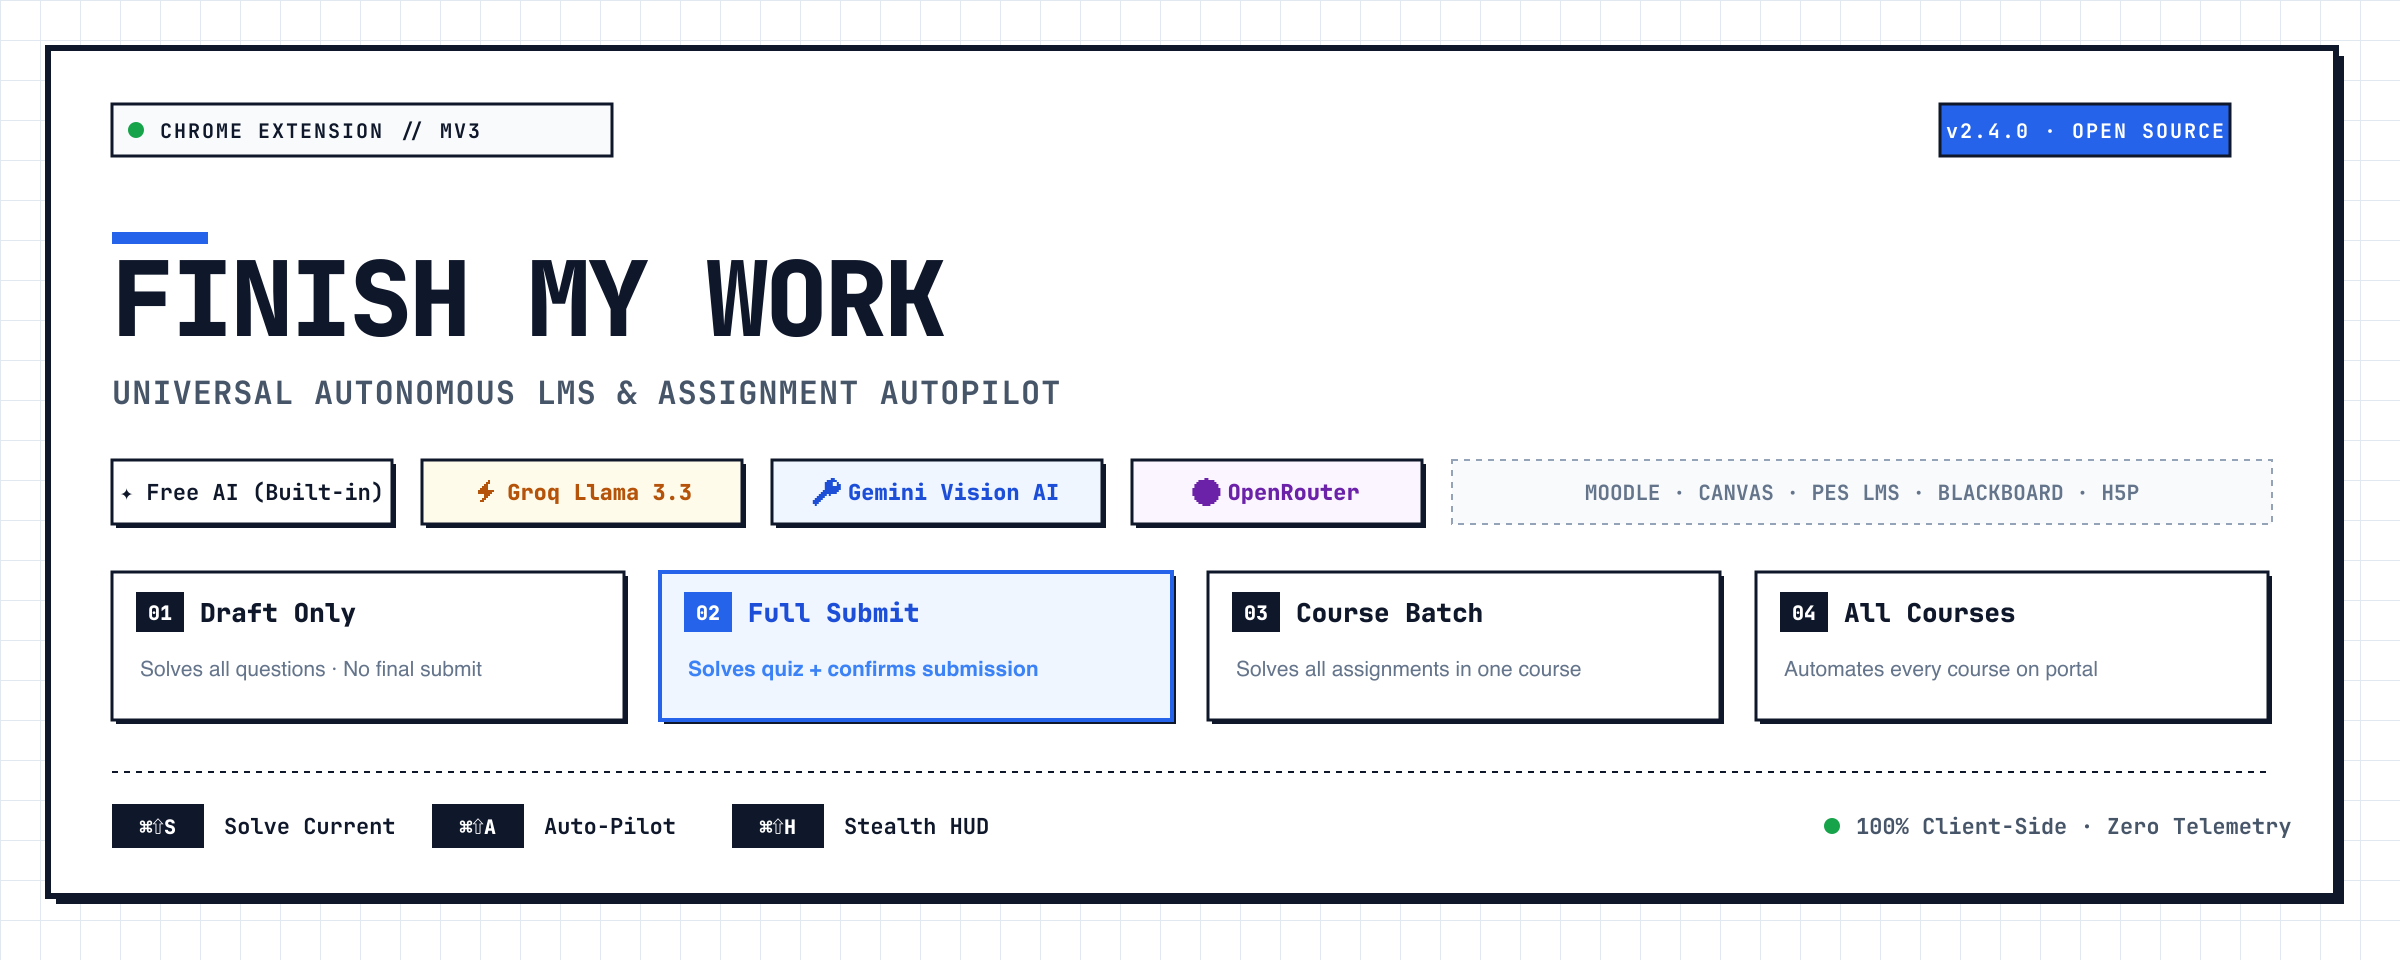
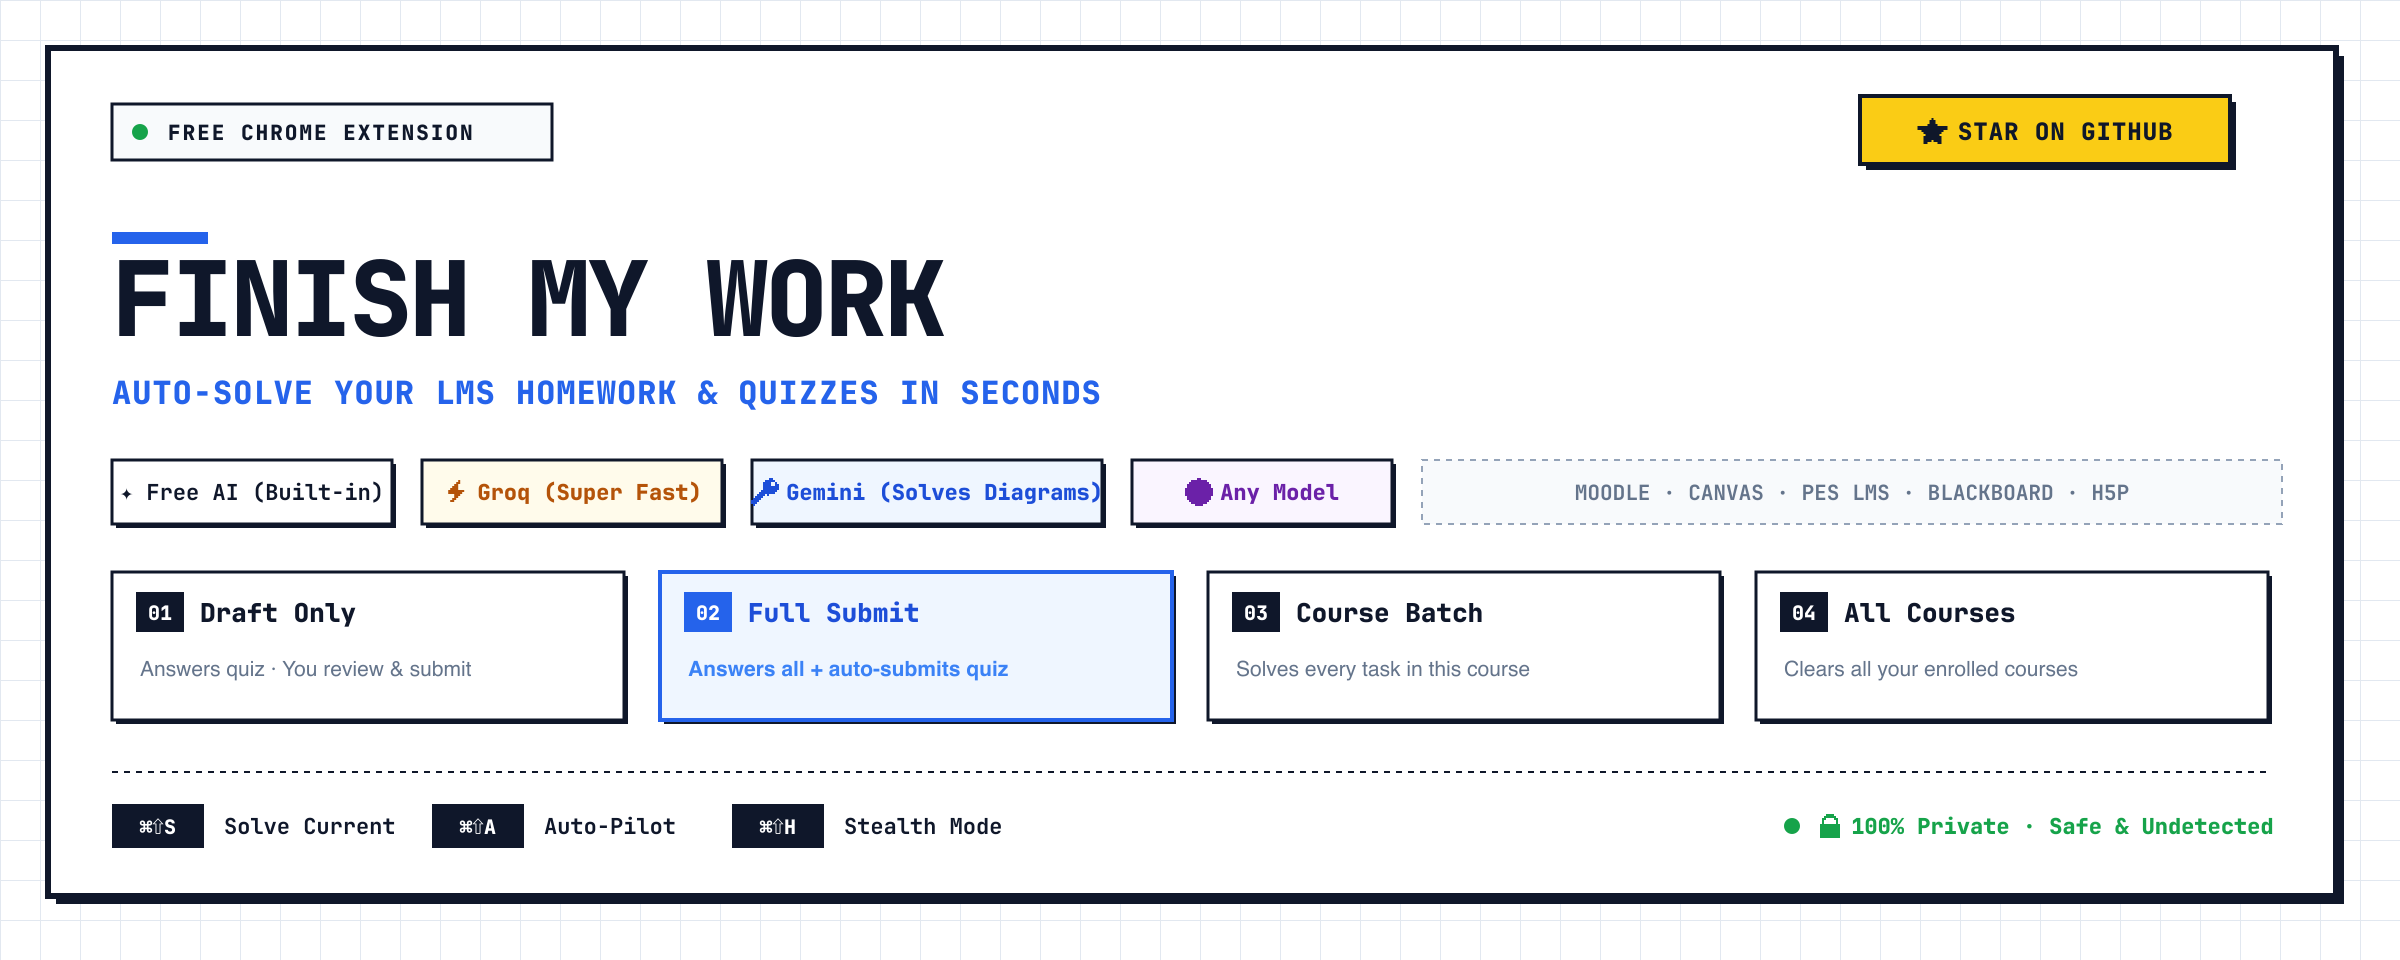
docs: remove developer jargon, write student-first copy, and add high-contrast Star CTA

diff --git a/README.md b/README.md
@@ -1,122 +1,103 @@
 <p align="center">
-  <img src="assets/banner.png" alt="Finish My Work Banner" width="100%" style="border-radius: 8px;" />
+  <a href="https://github.com/rushilbh27/finish-my-work">
+    <img src="assets/banner.png" alt="Finish My Work Banner" width="100%" />
+  </a>
 </p>
 
 <p align="center">
-  <strong>Universal Autonomous Assignment & Quiz Autopilot for Chrome</strong>
-</p>
-
-<p align="center">
-  <a href="https://github.com/rushilbh27/finish-my-work/stargazers"><img src="https://img.shields.io/github/stars/rushilbh27/finish-my-work?style=for-the-badge&color=2563eb" alt="GitHub Stars"></a>
-  <a href="LICENSE"><img src="https://img.shields.io/badge/License-MIT-blue.svg?style=for-the-badge" alt="MIT License"></a>
-  <img src="https://img.shields.io/badge/Chrome-Manifest_V3-success?style=for-the-badge&logo=googlechrome" alt="Manifest V3">
-  <img src="https://img.shields.io/badge/AI-Groq%20%7C%20Gemini%20%7C%20OpenRouter-orange?style=for-the-badge" alt="AI Engines">
-  <a href="https://github.com/rushilbh27/finish-my-work/pulls"><img src="https://img.shields.io/badge/PRs-welcome-brightgreen.svg?style=for-the-badge" alt="PRs Welcome"></a>
+  <a href="https://github.com/rushilbh27/finish-my-work/stargazers">
+    <img src="https://img.shields.io/badge/%E2%AD%90%20STAR%20THIS%20REPO-If%20it%20saved%20your%20grades!-facc15?style=for-the-badge&labelColor=0f172a" alt="Star on GitHub" />
+  </a>
+  &nbsp;
+  <a href="https://github.com/rushilbh27/finish-my-work/stargazers">
+    <img src="https://img.shields.io/github/stars/rushilbh27/finish-my-work?style=for-the-badge&color=2563eb" alt="GitHub Stars" />
+  </a>
+  &nbsp;
+  <img src="https://img.shields.io/badge/License-MIT-blue.svg?style=for-the-badge" alt="MIT License" />
+  &nbsp;
+  <img src="https://img.shields.io/badge/Chrome-Extension-success?style=for-the-badge&logo=googlechrome" alt="Chrome Extension" />
 </p>
 
 ---
 
-## ⚡ Overview
+## ⚡ What is Finish My Work?
 
-**Finish My Work** is an open-source, high-speed autonomous Chrome extension that automates repetitive LMS homework, Moodle quizzes, TinyMCE brief answers, and interactive H5P modules with surgical precision.
+**Finish My Work** is a free Chrome extension that automatically solves school assignments, portal quizzes, essays, and flashcards in seconds.
 
-Built with a sleek neo-brutalist technical interface, multi-engine AI intelligence (**Groq**, **Gemini Vision**, **OpenRouter**, and a **Built-in Free Tier** with auto-pacing cooldowns), and **4 autonomous agent modes**, it turns hours of repetitive school portal clicks into a single shortcut press.
+Whether your school uses **Moodle**, **Canvas**, **Blackboard**, or **PES LMS**, Finish My Work reads the questions on your screen, fills in the correct answers, turns pages, and gets your homework done so you can focus on things you actually care about.
 
 ---
 
-## 📸 Visual Showcase
+## 📸 Extension Preview
 
 <p align="center">
-  <img src="assets/popup-main.png" alt="Finish My Work Extension UI" width="350px" />
+  <img src="assets/popup-main.png" alt="Finish My Work Extension UI" width="340px" />
 </p>
 
 <p align="center">
   <img src="assets/agent-modes.png" alt="4 Agent Autopilot Modes" width="94%" />
-  <br />
-  <em>Agent Mode Selector: Full descriptive context in the menu, clean compact labels when selected.</em>
 </p>
 
 ---
 
-## 🚀 The 4 Autonomous Agent Modes
+## 🚀 The 4 Autopilot Modes
 
-| Mode | Short Label | Description & Workflow |
+Pick how much control you want:
+
+| Mode | What it does | When to use it |
 | :--- | :--- | :--- |
-| **Mode 1** | **Draft Only** | **Solve, don't submit.** Solves all questions on the page, handles multi-page pagination, but halts safely before final submission so you can review answers with complete peace of mind. |
-| **Mode 2** | **Full Submit** | **Solve + submit quiz.** Solves every question, handles pagination, triggers the final submission button, bypasses Moodle double-confirmation modals, and stops once the "Response received" state is verified. |
-| **Mode 3** | **Course Batch** | **All assignments in course.** Sequentially crawls through all quizzes, modules, and reading materials in your active course, solving and marking them complete. |
-| **Mode 4** | **All Courses** | **Every assignment everywhere.** Full autonomous sweep across all enrolled courses on your portal dashboard. |
+| **01. Draft Only** | Solves every question and turns pages, but **stops before the final submit button**. | When you want to double-check the answers yourself before turning it in. |
+| **02. Full Submit** | Solves all questions, clicks final submit, confirms submission dialogs, and verifies you're done. | When you just want the quiz finished and turned in automatically. |
+| **03. Course Batch** | Automatically goes through all open quizzes and assignments across your current course. | Clearing an entire subject's backlog in one sitting. |
+| **04. All Courses** | Sweeps across all your enrolled courses on your portal dashboard. | End-of-semester speedrun. |
 
 ---
 
-## 🧠 Multi-Engine AI Architecture
+## 🤖 Works With Any AI (Or None at All!)
 
-Finish My Work never leaves you stranded with a broken rate limit or expired trial:
-
-- ✦ **Built-in Free Engine (Zero-Key)**: Works out of the box with zero API keys or configuration. Includes an automated countdown timer that paces requests through free-tier server cooldowns so no question is ever skipped.
-- ⚡ **Groq Cloud (Ultra-Fast 500+ T/s)**: Connect your free Groq key (`gsk_...`) for instant Llama 3.3 70B solving with zero wait times. Get one in 10 seconds at [console.groq.com](https://console.groq.com/keys).
-- 🔑 **Google Gemini (Vision AI)**: Connect your Gemini key from [Google AI Studio](https://aistudio.google.com/app/apikey). Capable of reading diagrams, circuit schematics, graphs, and chemistry formulas.
-- 🌐 **OpenRouter**: Access DeepSeek R1, Claude 3.5 Sonnet, or GPT-4o with your custom [OpenRouter](https://openrouter.ai/keys) key.
+- ✦ **Free AI (Built-in)**: Works immediately out of the box with zero keys, zero setup, and zero credit cards. Includes an automatic countdown timer so multi-question quizzes never get stuck on server limits.
+- ⚡ **Groq AI (Super Fast)**: Instant answers with zero wait time. Free keys take 10 seconds at [console.groq.com](https://console.groq.com/keys).
+- 🔑 **Google Gemini (Vision AI)**: Can solve questions with diagrams, circuits, charts, and chemistry formulas. Free keys at [Google AI Studio](https://aistudio.google.com/app/apikey).
+- 🌐 **Any Model**: Connect your [OpenRouter](https://openrouter.ai/keys) key to run DeepSeek R1, Claude, or GPT-4o.
 
 ---
 
-## ✨ Key Features
+## ✨ Features Students Love
 
-- **🧩 Native H5P Module Cracker**: Reads flashcards and crossword memory directly from the client-side DOM objects and solves them in milliseconds with 100% precision.
-- **📝 TinyMCE & Rich Text Automation**: Injects concise, natural academic answers directly into rich-text essay boxes and triggers native input dispatchers so forms detect content change.
-- **📚 1-Click Course Completion**: Automatically scans and ticks off "Done" buttons for all PDFs, reading chapters, and video lectures.
-- **⌨ Muscle-Memory Shortcuts**:
+- 📝 **Solves Written & Essay Questions**: Automatically writes natural answers into text boxes.
+- 🧩 **H5P Flashcards & Crosswords**: Instantly finds the solutions to interactive flashcards and crosswords.
+- 📚 **1-Click Reading Check**: Automatically clicks "Done" on PDF modules, chapters, and video lessons.
+- 🔒 **100% Private & Undetected**: No tracking, no logs, and undetected by school portals. Runs directly on your device.
+- ⌨ **Keyboard Shortcuts**:
   - <kbd>⌘⇧S</kbd> / <kbd>Ctrl+Shift+S</kbd> : Solve Current Question
-  - <kbd>⌘⇧A</kbd> / <kbd>Ctrl+Shift+A</kbd> : Trigger Autonomous Auto-Pilot
-  - <kbd>⌘⇧H</kbd> / <kbd>Ctrl+Shift+H</kbd> : Stealth Toggle (Show / Hide on-page HUD)
-- **🔒 100% Local Privacy**: Zero telemetry, zero external tracking databases, and zero analytics. Your API keys and school sessions stay strictly inside your browser's encrypted `chrome.storage.local`.
+  - <kbd>⌘⇧A</kbd> / <kbd>Ctrl+Shift+A</kbd> : Start Autopilot
+  - <kbd>⌘⇧H</kbd> / <kbd>Ctrl+Shift+H</kbd> : Stealth Mode (Hide the floating widget)
 
 ---
 
-## 🛠 30-Second Quickstart Installation
+## 🛠 How to Install in 30 Seconds
 
-1. Clone or download this repository:
+1. Download or clone this repository:
    ```bash
    git clone https://github.com/rushilbh27/finish-my-work.git
    ```
 2. Open Google Chrome (or Brave, Arc, Edge, Opera).
-3. Navigate to `chrome://extensions/` in your URL bar.
-4. Turn on the **"Developer mode"** toggle in the top-right corner.
-5. Click **"Load unpacked"** in the top-left corner.
-6. Select the cloned `finish-my-work` folder.
-7. Pin **Finish My Work** to your toolbar — you're ready to conquer your workload!
+3. In the address bar, type:
+   ```
+   chrome://extensions
+   ```
+4. Turn on the **"Developer mode"** switch in the top-right corner.
+5. Click **"Load unpacked"** in the top-left corner and pick the `finish-my-work` folder.
+6. Pin the extension to your toolbar — you're ready to go!
 
 ---
 
-## 🎯 How to Use
+## ⭐ If this helped you, drop a Star!
 
-1. Navigate to your LMS portal (Moodle, PESLMS, Canvas, etc.).
-2. Open any quiz attempt, assignment, or study module.
-3. Click the extension icon in your Chrome toolbar:
-   - Pick your desired **Agent Mode** (`Draft Only`, `Full Submit`, `Course Batch`, or `All Courses`).
-   - Click **▶ Auto-Pilot** (or press <kbd>⌘⇧A</kbd>).
-4. Watch the extension effortlessly fill answers, navigate pages, and complete your tasks.
-
----
-
-## ⭐ Star History & Support
-
-If this tool saved your grade, spared your sanity, or gave you back your weekends, please **drop a Star (★) on GitHub** — it helps more students discover it!
-
----
-
-## 🤝 Contributing
-
-Contributions, issues, and feature requests are welcome!
-
-1. Fork the Project
-2. Create your Feature Branch (`git checkout -b feature/EpicFeature`)
-3. Commit your Changes (`git commit -m 'feat: Add support for Canvas quiz format'`)
-4. Push to the Branch (`git push origin feature/EpicFeature`)
-5. Open a Pull Request
+If this saved you hours of boring homework, spared your sanity, or saved your grade, please **[click here to Star this repository](https://github.com/rushilbh27/finish-my-work)**! It takes one click and helps other students find it.
 
 ---
 
 ## 📄 License
 
-Distributed under the **MIT License**. See [`LICENSE`](LICENSE) for more details.
+Distributed under the **MIT License**. See [`LICENSE`](LICENSE) for details.
